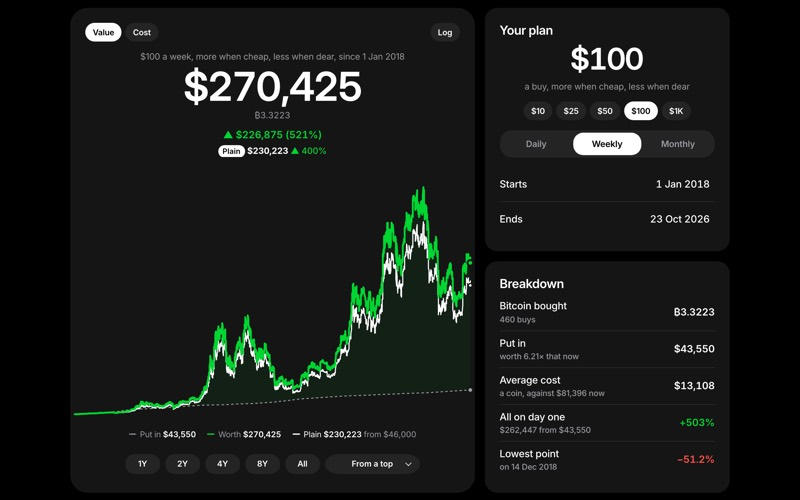
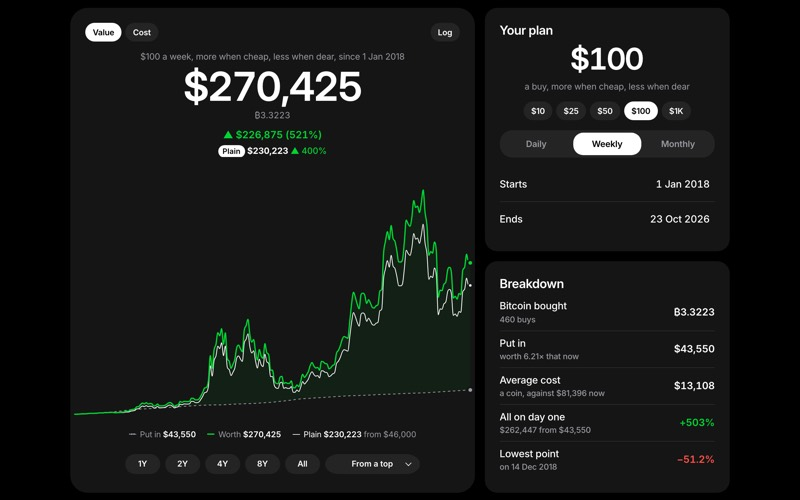
showcases: DCA's chart lines thinner and smooth (the plan's 2px, the rest 1.25px; picked from five looks): a point every 3px, joined by a curve that never shows a high or low its points don't have (monotone, Fritsch–Carlson), a short plan's filled from the same curve through its days; the crosshair'

Changed region(s): [[0.4375, 0.36, 0.5938, 0.66], [0.0938, 0.63, 0.4375, 0.84]]

diff --git a/showcases/dca/index.html b/showcases/dca/index.html
@@ -467,15 +467,15 @@
         fill: var(--loss-fill);
       }
 
+      /* (Thin: the plan's own 2px, the rest 1.25px.) */
       .line {
         fill: none;
-        stroke-width: 2.5px;
+        stroke-width: 2px;
         stroke-linecap: round;
         stroke-linejoin: round;
 
         &.up {
           stroke: var(--line-up);
-          stroke-width: 3px;
         }
 
         &.down {
@@ -484,17 +484,17 @@
 
         &.price {
           stroke: var(--soft);
-          stroke-width: 1.75px;
+          stroke-width: 1.25px;
         }
 
         &.plain {
           stroke: var(--plain);
-          stroke-width: 1.75px;
+          stroke-width: 1.25px;
         }
 
         &.dashed {
           stroke: var(--soft);
-          stroke-width: 1.5px;
+          stroke-width: 1.25px;
           stroke-dasharray: 3 5;
         }
       }
@@ -562,7 +562,7 @@
           height: 0;
           margin-right: 6px;
           vertical-align: 0.3em;
-          border-top: 2.5px solid var(--line-up);
+          border-top: 2px solid var(--line-up);
           border-radius: 2px;
         }
 
@@ -572,7 +572,7 @@
 
         .price i {
           border-top-color: var(--soft);
-          border-top-width: 2px;
+          border-top-width: 1.5px;
         }
 
         .down i {
@@ -581,6 +581,7 @@
 
         .plain i {
           border-top-color: var(--plain);
+          border-top-width: 1.5px;
         }
 
         .plain-name {
@@ -1480,7 +1481,12 @@
 
       // ── The plan's state, in the address (to: left out while it's the last day) ──
 
-      const state = { amount: 100, every: /** @type {Every} */ ("week"), from: 0, to: 0, log: false, view: /** @type {"value" | "cost"} */ ("value"), atlas: /** @type {"returns" | "edge"} */ ("returns") };
+      /** Each chart's scale by default: the value's linear, a plan's worth as it grew; the cost's log, as the price and a
+       * coin's cost span cents to tens of thousands of dollars. */
+      const LOG = { value: false, cost: true };
+      const state = { amount: 100, every: /** @type {Every} */ ("week"), from: 0, to: 0, logs: { ...LOG }, view: /** @type {"value" | "cost"} */ ("value"), atlas: /** @type {"returns" | "edge"} */ ("returns") };
+      /** Whether the chart shown is on a log scale (each chart keeps its own). */
+      const logged = () => state.logs[state.view];
       /** The plain plan, and the smart plan over the same days (none without MVRV). @type {Run} */
       let plan;
       /** @type {Run | null} */
@@ -1496,7 +1502,7 @@
       /** The plan a link asks for; a part that isn't usable stays the default, and the page says which. */
       function readAddress() {
         const query = new URLSearchParams(location.search), unused = [];
-        const amount = query.get("amount"), every = query.get("every"), from = query.get("from"), to = query.get("to"), view = query.get("view"), atlas = query.get("map");
+        const amount = query.get("amount"), every = query.get("every"), from = query.get("from"), to = query.get("to"), view = query.get("view"), scale = query.get("scale"), atlas = query.get("map");
         if (amount !== null) amountProblem(Number(amount)) ? unused.push("amount") : (state.amount = Number(amount));
         if (every !== null) every === "day" || every === "week" || every === "month" ? (state.every = every) : unused.push("schedule");
         const toDay = to === null ? last : linkDay(to), fromDay = from === null ? NaN : linkDay(from);
@@ -1504,8 +1510,9 @@
         state.to = toDay >= first && toDay <= last ? toDay : last;
         if (from !== null && !(fromDay >= first && fromDay <= state.to)) unused.push("first day");
         state.from = fromDay >= first && fromDay <= state.to ? fromDay : Math.max(first, yearsBefore(state.to, 4) + 1);
-        state.log = query.get("scale") === "log";
         if (view !== null) view === "value" || view === "cost" ? (state.view = view) : unused.push("chart");
+        // (The scale is the linked chart's.)
+        if (scale !== null) scale === "log" || scale === "lin" ? (state.logs[state.view] = scale === "log") : unused.push("scale");
         if (atlas !== null) atlas === "returns" || (atlas === "smart" && comparable) ? (state.atlas = atlas === "smart" ? "edge" : "returns") : unused.push("map");
         return unused.length ? `This link's ${unused.join(", ")} couldn't be used, so ${unused.length > 1 ? "the defaults stand" : "the default stands"} in.` : "";
       }
@@ -1518,7 +1525,8 @@
       function writeAddress() {
         const query = new URLSearchParams({ amount: String(state.amount), every: state.every, from: iso(state.from) });
         if (state.to !== last) query.set("to", iso(state.to));
-        if (state.log) query.set("scale", "log");
+        // (The chart shown's scale, when it isn't that chart's default.)
+        if (logged() !== LOG[state.view]) query.set("scale", logged() ? "log" : "lin");
         if (state.view === "cost") query.set("view", "cost");
         if (state.atlas === "edge") query.set("map", "smart");
         history.replaceState(null, "", `?${query}`);
@@ -1605,7 +1613,7 @@
           const years = Number(/** @type {HTMLElement} */ (button).dataset.years);
           button.setAttribute("aria-pressed", String(state.from === spanStart(years)));
         }
-        $("log").setAttribute("aria-pressed", String(state.log));
+        $("log").setAttribute("aria-pressed", String(logged()));
         for (const button of document.querySelectorAll("[data-atlas]")) button.setAttribute("aria-pressed", String(/** @type {HTMLElement} */ (button).dataset.atlas === state.atlas));
       }
 
@@ -1677,7 +1685,7 @@
         });
       }
       $("log").addEventListener("click", () => {
-        state.log = !state.log;
+        state.logs[state.view] = !logged();
         update();
       });
 
@@ -1751,9 +1759,9 @@
       const INKS = { up: "var(--line-up)", down: "var(--loss)", price: "var(--soft)", dashed: "var(--soft)", plain: "var(--plain)" };
       /** What the chart shows: x and y by the plan's day, its series (two, and the baseline's third), the crosshair, and
        * how to finish drawing it.
-       * @type {{ x: (i: number) => number, ys: ((i: number) => number)[], series: Series[], marks: Element[], line: Element, ends: Element, finish: () => void } | null} */
+       * @type {{ x: (i: number) => number, onLine: (k: number, i: number) => number, series: Series[], marks: Element[], line: Element, ends: Element, finish: () => void } | null} */
       let drawn = null;
-      /** The lines as on screen, two points a pixel column: where a glide starts. */
+      /** The lines as on screen, a point a column: where a glide starts. */
       let onScreen = /** @type {Float64Array[] | null} */ (null), glide = 0;
       const GLIDE = 250;
       const eased = (/** @type {number} */ t) => 1 - (1 - t) ** 3;
@@ -1767,6 +1775,45 @@
       /** How far in from each side the first and last days sit: a dot's reach (a crosshair's 5px and its 1.5px ring), so
        * a dot on either end stays in its card. */
       const INSET = 7;
+      /** A line's points, one every 3px: the curve through them is smooth where a point a pixel is hair. */
+      const STEP = 3;
+
+      /** The slopes at points by x of a curve through them, monotone between each two (Fritsch–Carlson): smooth, and never
+       * above the higher of two neighbors or below the lower, so it shows no high or low the points don't have. */
+      function tangentsOf(/** @type {[number, number][]} */ points) {
+        const n = points.length, slopes = [], tangents = new Array(n).fill(0);
+        if (n < 2) return tangents;
+        for (let k = 0; k < n - 1; k++) slopes.push((points[k + 1][1] - points[k][1]) / (points[k + 1][0] - points[k][0]));
+        [tangents[0], tangents[n - 1]] = [slopes[0], slopes[n - 2]];
+        for (let k = 1; k < n - 1; k++) tangents[k] = slopes[k - 1] * slopes[k] <= 0 ? 0 : (slopes[k - 1] + slopes[k]) / 2;
+        for (let k = 0; k < n - 1; k++) {
+          if (slopes[k] === 0) {
+            tangents[k] = tangents[k + 1] = 0;
+            continue;
+          }
+          const a = tangents[k] / slopes[k], b = tangents[k + 1] / slopes[k], h = a * a + b * b;
+          if (h > 9) [tangents[k], tangents[k + 1]] = [(3 / Math.sqrt(h)) * a * slopes[k], (3 / Math.sqrt(h)) * b * slopes[k]];
+        }
+        return tangents;
+      }
+
+      /** That curve's height between two points `width` apart, with heights y0, y1 and slopes m0, m1, a fraction `u` along. */
+      const hermite = (/** @type {number} */ y0, /** @type {number} */ y1, /** @type {number} */ m0, /** @type {number} */ m1, /** @type {number} */ u, /** @type {number} */ width) =>
+        (2 * u ** 3 - 3 * u ** 2 + 1) * y0 + (u ** 3 - 2 * u ** 2 + u) * width * m0 + (-2 * u ** 3 + 3 * u ** 2) * y1 + (u ** 3 - u ** 2) * width * m1;
+
+      /** That curve as a path, from the first point or (`reverse`) from the last: the same curve either way. */
+      function monotone(/** @type {[number, number][]} */ points, reverse = false) {
+        const n = points.length, at = (/** @type {[number, number]} */ [x, y]) => `${x.toFixed(1)},${y.toFixed(1)}`;
+        if (n < 3) return (reverse ? [...points].reverse() : points).map((p, k) => `${k ? "L" : "M"}${at(p)}`).join("");
+        const tangents = tangentsOf(points), segments = [];
+        for (let k = 0; k < n - 1; k++) {
+          const [[x0, y0], [x1, y1]] = [points[k], points[k + 1]], third = (x1 - x0) / 3;
+          /** @type {[number, number][]} */
+          const controls = [[x0 + third, y0 + tangents[k] * third], [x1 - third, y1 - tangents[k + 1] * third]];
+          segments.push(reverse ? `C${at(controls[1])},${at(controls[0])},${at(points[k])}` : `C${at(controls[0])},${at(controls[1])},${at(points[k + 1])}`);
+        }
+        return `M${at(points[reverse ? n - 1 : 0])}${(reverse ? segments.reverse() : segments).join("")}`;
+      }
 
       /** No axes: the numbers are the value above and the keys below, at the day pointed at. The plan the page leads with:
        * worth is green, or red when the plan ends below what went in; faintly between its two lines, green where the plan
@@ -1794,10 +1841,11 @@
           }
         // (Flat within float error, as a one-day plan is: centered.)
         const flat = hi - lo <= hi * 1e-9;
-        if (state.log) [lo, hi] = flat ? [lo / 2, hi * 2] : [lo / 1.04, hi * 1.04];
+        const log = logged();
+        if (log) [lo, hi] = flat ? [lo / 2, hi * 2] : [lo / 1.04, hi * 1.04];
         else [lo, hi] = flat ? [lo / 2, hi * 1.5] : [Math.max(0, lo - (hi - lo) * 0.05), hi + (hi - lo) * 0.05];
-        const span = state.log ? Math.log(hi / lo) : hi - lo;
-        const y = (/** @type {number} */ v) => pad + (height - 2 * pad) * (1 - (state.log ? Math.log(v / lo) : v - lo) / span);
+        const span = log ? Math.log(hi / lo) : hi - lo;
+        const y = (/** @type {number} */ v) => pad + (height - 2 * pad) * (1 - (log ? Math.log(v / lo) : v - lo) / span);
         const x = (/** @type {number} */ i) => (n === 1 ? width / 2 : INSET + (i / (n - 1)) * (width - 2 * INSET));
         const ys = series.map((s) => (/** @type {number} */ i) => y(s.f(i)));
         svg.setAttribute("viewBox", `0 0 ${width} ${height}`);
@@ -1813,50 +1861,40 @@
         ends.append(...dots);
         // (The baseline's line under the plan's own, which is on top.)
         svg.replaceChildren(clips, ...fills, ...[0, 2, 1].flatMap((k) => lines[k] ?? []), ends, cross);
-        // The lines as two points a pixel column, at rest and in a glide alike, so a glide starts and ends on the shape at
-        // rest: where days outnumber columns, a column's lowest and highest day in the order they came (as drawing every
-        // day looks); else each day on the column nearest it and the line between days on the rest, twice a column. A
-        // one-day plan: its point, in one column.
-        const columns = n === 1 ? 1 : Math.max(2, Math.round(width - 2 * INSET));
+        // The lines as a point a column, every STEP px, at rest and in a glide alike, so a glide starts and ends on the
+        // shape at rest: where days outnumber columns, the day at each column's x (the first and last columns: the first
+        // and last days); else the curve through the days where each column is, so a short plan is as smooth as a long
+        // one. A one-day plan: its point, in one column.
+        const columns = n === 1 ? 1 : Math.max(2, Math.round((width - 2 * INSET) / STEP));
         const colX = (/** @type {number} */ j) => (columns === 1 ? width / 2 : INSET + (j / (columns - 1)) * (width - 2 * INSET));
         // (After the columns, the last day's own value: where the line's end dot sits.)
         const sample = (/** @type {(i: number) => number} */ yOf) => {
-          const out = new Float64Array(columns * 2 + 1);
-          out[columns * 2] = yOf(n - 1);
+          const out = new Float64Array(columns + 1);
+          out[columns] = yOf(n - 1);
           if (n > columns) {
-            for (let j = 0; j < columns; j++) {
-              const from = Math.floor((j * n) / columns), to = Math.max(from + 1, Math.floor(((j + 1) * n) / columns));
-              let top = from, bottom = from;
-              for (let i = from; i < to; i++) {
-                if (yOf(i) < yOf(top)) top = i;
-                if (yOf(i) > yOf(bottom)) bottom = i;
-              }
-              [out[2 * j], out[2 * j + 1]] = top < bottom ? [yOf(top), yOf(bottom)] : [yOf(bottom), yOf(top)];
-            }
+            for (let j = 0; j < columns; j++) out[j] = yOf(Math.round((j / (columns - 1)) * (n - 1)));
             return out;
           }
+          /** @type {[number, number][]} */
+          const days = Array.from({ length: n }, (_, i) => [i, yOf(i)]), tangents = tangentsOf(days);
           for (let j = 0; j < columns; j++) {
-            const t = columns === 1 ? 0 : (j / (columns - 1)) * (n - 1), i = Math.floor(t), next = Math.min(n - 1, i + 1);
-            out[2 * j] = out[2 * j + 1] = yOf(i) + (yOf(next) - yOf(i)) * (t - i);
-          }
-          for (let i = 0; i < n; i++) {
-            const j = n === 1 ? 0 : Math.round((i / (n - 1)) * (columns - 1));
-            out[2 * j] = out[2 * j + 1] = yOf(i);
+            // (Between two days, the cubic that joins them with their slopes.)
+            const t = columns === 1 ? 0 : (j / (columns - 1)) * (n - 1), i = Math.min(n - 2, Math.floor(t)), u = t - i;
+            if (n === 1) {
+              out[j] = days[0][1];
+              continue;
+            }
+            out[j] = hermite(days[i][1], days[i + 1][1], tangents[i], tangents[i + 1], u, 1);
           }
           return out;
         };
+        /** A line's samples as points on the chart. */
+        const pointsOf = (/** @type {Float64Array} */ line) => Array.from({ length: columns }, (_, j) => /** @type {[number, number]} */ ([colX(j), line[j]]));
         /** Draws the lines, the fill between the first two and its clips, from their samples. */
         const paint = (/** @type {Float64Array[]} */ shape) => {
-          const along = (/** @type {number} */ k, reverse = false) => {
-            let d = "";
-            for (let m = 0; m < columns * 2; m++) {
-              const p = reverse ? columns * 2 - 1 - m : m;
-              d += `${d ? "L" : "M"}${colX(p >> 1).toFixed(1)},${shape[k][p].toFixed(1)}`;
-            }
-            return d;
-          };
+          const along = (/** @type {number} */ k, reverse = false) => monotone(pointsOf(shape[k]), reverse);
           lines.forEach((path, k) => path.setAttribute("d", along(k)));
-          dots.forEach((dot, k) => dot.setAttribute("cy", shape[k][columns * 2].toFixed(1)));
+          dots.forEach((dot, k) => dot.setAttribute("cy", shape[k][columns].toFixed(1)));
           const edge = along(1 - good), between = `${along(good)}L${along(1 - good, true).slice(1)}Z`;
           fills.forEach((fill) => fill.setAttribute("d", between));
           under[0].setAttribute("d", `${edge}L${width},0L0,0Z`);
@@ -1870,7 +1908,15 @@
           paint(target);
           onScreen = target;
         };
-        drawn = { x, ys, series, marks, line, ends, finish };
+        // (A day's mark on its line as drawn at rest: on the curve between the two points around it, where the day falls
+        // between points; the keys say the day's own numbers.)
+        const tangents = target.map((line) => tangentsOf(pointsOf(line)));
+        const onLine = (/** @type {number} */ k, /** @type {number} */ i) => {
+          if (columns === 1) return target[k][0];
+          const at = (i / (n - 1)) * (columns - 1), j = Math.min(columns - 2, Math.floor(at));
+          return hermite(target[k][j], target[k][j + 1], tangents[k][j], tangents[k][j + 1], at - j, colX(j + 1) - colX(j));
+        };
+        drawn = { x, onLine, series, marks, line, ends, finish };
         cancelAnimationFrame(glide);
         if (animate && from && !still.matches) {
           const start = performance.now();
@@ -1931,7 +1977,7 @@
           drawn.line.setAttribute("x2", x);
           drawn.marks.forEach((mark, k) => {
             mark.setAttribute("cx", x);
-            mark.setAttribute("cy", String(/** @type {NonNullable<typeof drawn>} */ (drawn).ys[k](at)));
+            mark.setAttribute("cy", String(/** @type {NonNullable<typeof drawn>} */ (drawn).onLine(k, at)));
           });
         }
         setWorth(worth, roll);
